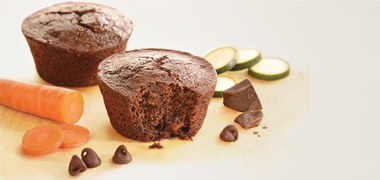
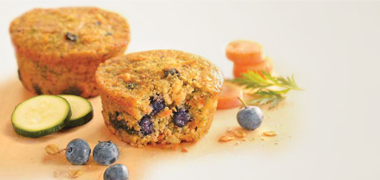
Created 728x90 Zucchini files and assets

diff --git a/Hooked_Zuchinni_160x600/HTML/Hooked_Zuchinni_160x600.html b/Hooked_Zuchinni_160x600/HTML/Hooked_Zuchinni_160x600.html
@@ -3,8 +3,8 @@
 <head>
 <meta charset="UTF-8">
 <meta name="ad.size" content="width=160,height=600"><!--DOUBLE-CLICK SIZE-->
-<title>Hooked_Carrots_160x600</title>
-<link rel="stylesheet" href="Hooked_Carrots_160x600.css">
+<title>Hooked_Zuchinni_160x600</title>
+<link rel="stylesheet" href="Hooked_Zuchinni_160x600.css">
 <!--[if lt IE 9]>
 <script src="http://html5shiv.googlecode.com/svn/trunk/html5.js"></script>
 <![endif]-->
@@ -17,7 +17,6 @@
 	<div class="img2 sprite-sheet"></div>
 	<div class="img1 sprite-sheet"></div>
 	<div class="text1 sprite-sheet">
-		<div class="fresh-carrots sprite-sheet"></div>
 		<div class="zucchini sprite-sheet"></div>
 	</div>
 	<div class="text2 sprite-sheet"></div>
@@ -25,12 +24,11 @@
 	<div class="stamp"></div>
 	<div class="logo sprite-sheet"></div>
 	<div class="cta sprite-sheet"></div>
-	<div class="cta-glow-container"></div>
 
 	<a href="#" class="click" target="_new"></a>
 
 </div>
 <script type="text/javascript" src="jquery-1.8.0.min.js"></script><!--JQUERY-->
-<script type="text/javascript" src="Hooked_Carrots_160x600.js"></script><!--MAIN JS FILE-->
+<script type="text/javascript" src="Hooked_Zuchinni_160x600.js"></script><!--MAIN JS FILE-->
 </body>
 </html>

diff --git a/Hooked_Zuchinni_160x600/HTML/Hooked_Zuchinni_160x600.css b/Hooked_Zuchinni_160x600/HTML/Hooked_Zuchinni_160x600.css
@@ -80,28 +80,20 @@ body a{
 
 .text1 {
 	background-position: -320px 0;
-    height: 86px;
+    height: 91px;
     left: 12px;
     opacity: 0;
     position: absolute;
     top: 135px;
-    width: 142px;
-}
-
-.fresh-carrots {
-	background-position: -320px -152px;
-    height: 14px;
-    position: absolute;
-    top: 49px;
-    width: 117px;
+    width: 144px;
 }
 
 .zucchini {
-	background-position: -320px -178px;
+	background-position: -320px -152px;
     height: 14px;
     position: absolute;
-    top: 74px;
-    width: 58px;
+    top: 48px;
+    width: 97px;
 }
 
 .text2 {
@@ -115,13 +107,13 @@ body a{
 }
 
 .text3 {
-	background-position: -320px -281px;
-    height: 21px;
-    left: 11px;
+	background-position: -320px -276px;
+    height: 33px;
+    left: 32px;
     opacity: 0;
     position: absolute;
-    top: 458px;
-    width: 137px;
+    top: 452px;
+    width: 95px;
 }
 
 .logo {

diff --git a/Hooked_Zuchinni_160x600/HTML/Hooked_Zuchinni_160x600.js b/Hooked_Zuchinni_160x600/HTML/Hooked_Zuchinni_160x600.js
@@ -43,7 +43,6 @@ var run = {
 	setupElements:function(){
 		$click = $('.click');//for ClickTag
 		$text1 = $('.text1');
-		$freshCarrots = $('.fresh-carrots');
 		$zucchini = $('.zucchini');
 		$text2 = $('.text2');
 		$text3 = $('.text3');
@@ -74,9 +73,6 @@ var run = {
 
 		TweenMax.to($text1, time - .5, {alpha: 1, ease:Linear.easeOut});
 		//force3D:true, removes screen tearing and smoothes images
-		TweenMax.to($freshCarrots, time - .7, {delay: time, scale:1.1, force3D:true, ease:Linear.easeOut, onComplete: function(){
-			TweenMax.to($freshCarrots, time - .7, {scale:1, force3D:true, ease:Quad.easeOut});
-		}});
 		TweenMax.to($zucchini, time - .7, {delay: time, scale:1.2, force3D:true, ease:Linear.easeOut, onComplete: function(){
 			TweenMax.to($zucchini, time - .7, {scale:1, force3D:true, ease:Quad.easeOut});
 		}});
